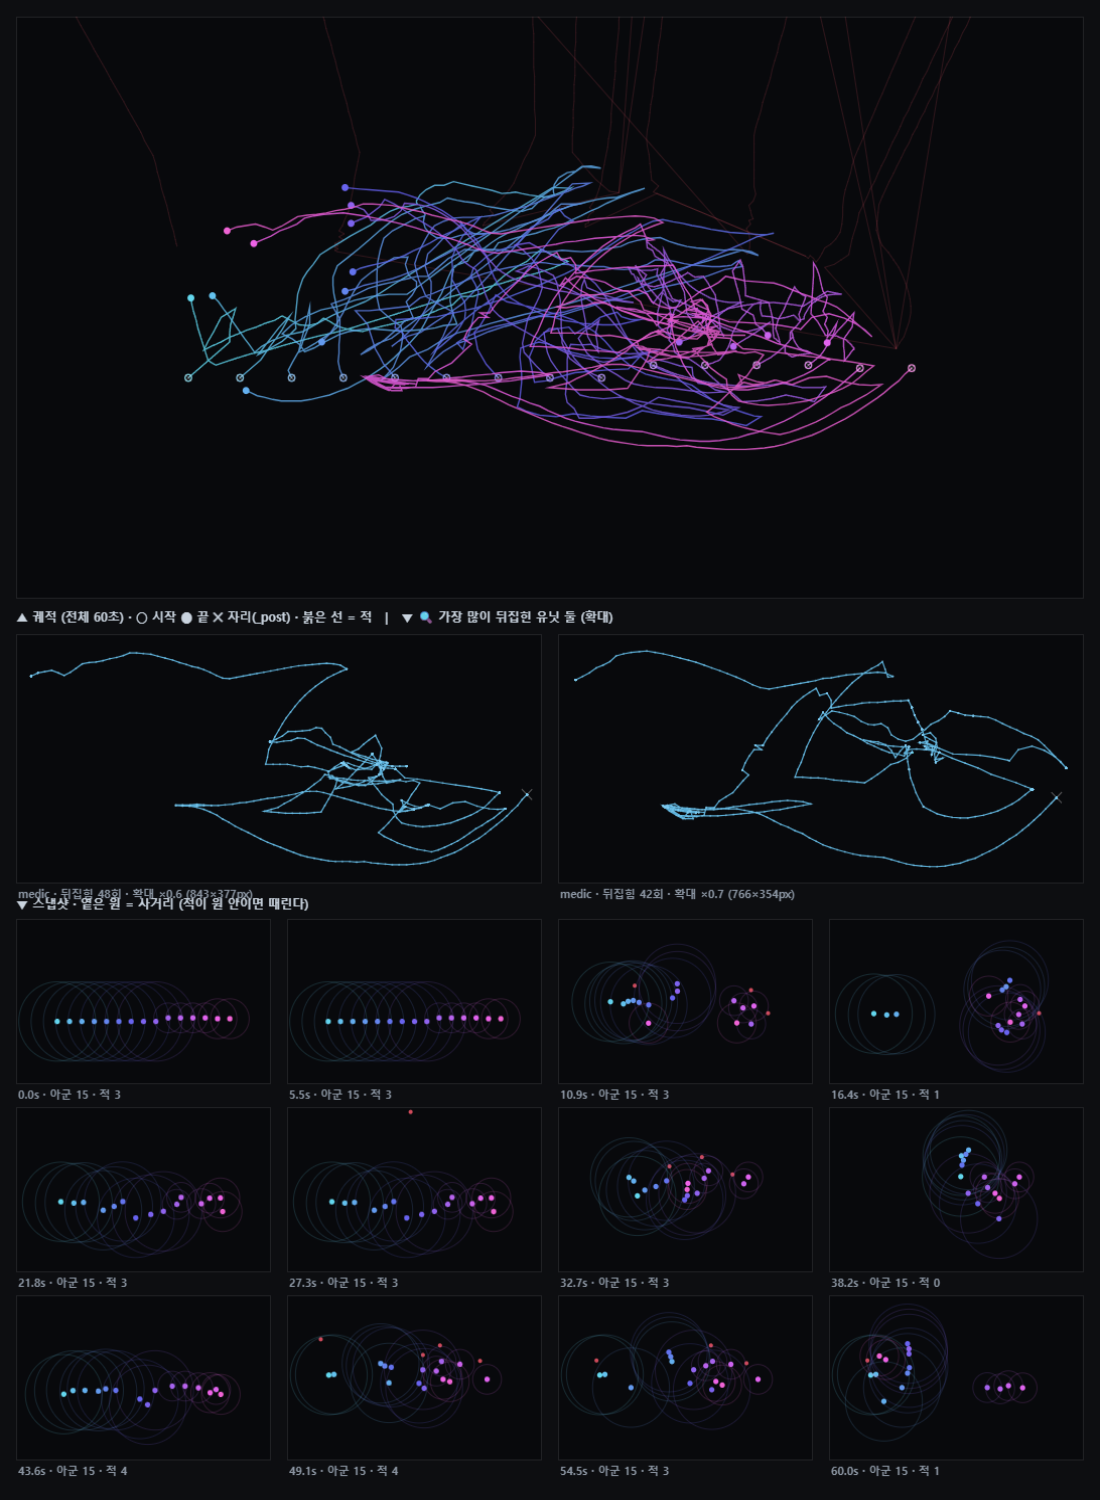
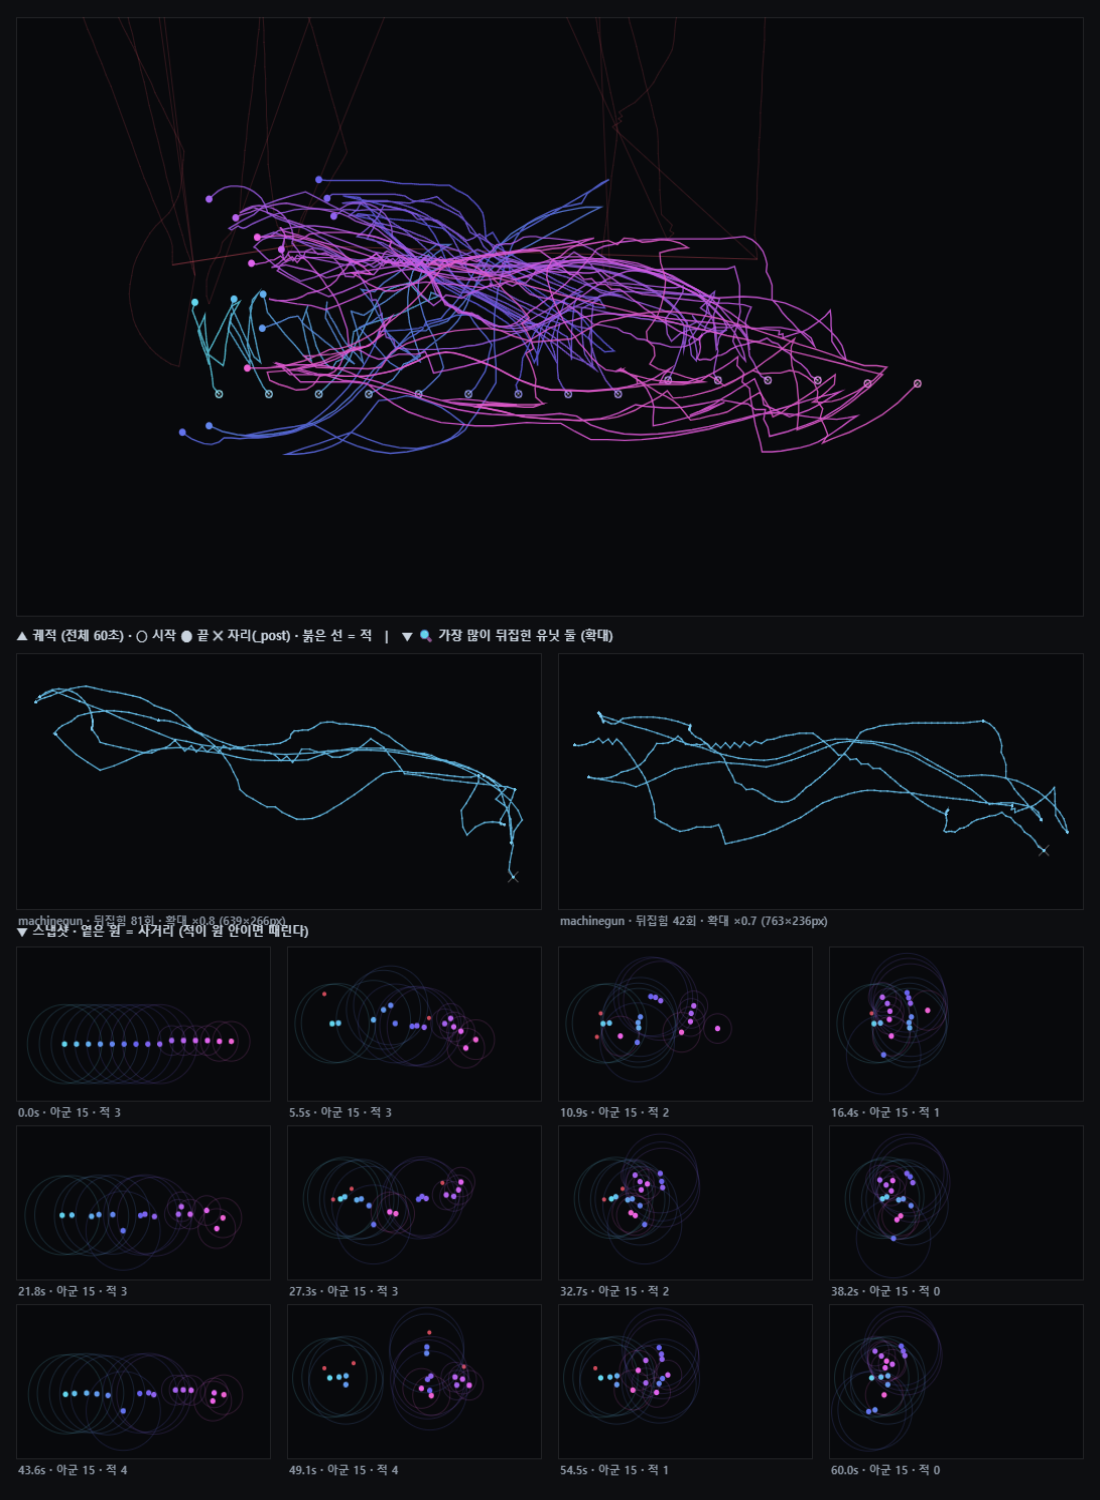
📣 캠프 전파 반경 150 → 400 — 헛걸음을 없앤다
눈은 「사거리+100」(레인저 287)인데 진형은 840px 이라 줄 끝까지 소식이 안 갔다.
적이 끊이지 않는 던전에서도 표적을 가진 비율이 33~52% 였다.

⛔ 화력 수치로는 이 변화가 안 보인다 — 던전 1 실효 0.61~0.62 로 전후가 같다.
  적이 3마리뿐이라 이미 다 잡고 있어 **천장에 걸린 상태**다.
⭐ 보이는 것은 행동이다(사용자가 짚었다 — 「다 쏘기 전에 적이 죽는 것 아니냐」):
  끝내 못 닿는 헛걸음 16·30 → **2·10·0**, 그만큼이 「가는 중 적이 죽음」으로 옮겨갔다
  (19·23 → 39·26·39). 헛수고가 정상적인 결말로 바뀌었다.

⛔ 진형 폭(840)까지 주지는 않는다 — 어디에 두든 전군이 달려가 배치의 뜻이 사라진다.
  400 은 「곁의 두세 명 건너까지」다. 자리 이탈은 안 늘었다(120~143 → 134~165).
⚠ 던전 2 에서는 갈리지 않는다 — 거기는 적이 하나도 안 죽고 아군이 전멸한다(다른 문제).

diff --git a/ARCHITECTURE.md b/ARCHITECTURE.md
@@ -268,6 +268,29 @@ CHROME_PATH=/opt/pw-browsers/chromium node scripts/camp-trace.mjs [초] [던전]
 아직 안 고쳤다.
 ⚠ 판별 편차가 크다(사거리 안 13.2~27.1%). 한 번 재고 결론 내지 말 것.
 
+##### 📣 전파 반경 150 → 400 — 헛걸음이 사라진다 (2026-09-01 사용자 확정)
+
+⚠ 눈은 「사거리 + 100」(레인저 287)인데 진형은 **840px** 이라, 왼쪽 끝 유닛은 오른쪽에 온 적을
+아예 못 본다. 적이 끊이지 않는 던전에서도 **표적을 가진 비율이 33~52%** 였다.
+
+⛔ **화력 수치로는 이 변화가 안 보인다** — 던전 1은 실효 0.61~0.62 로 전후가 같다.
+적이 3마리뿐이라 이미 다 잡고 있어서 **천장에 걸린 상태**이기 때문이다.
+⭐ 보이는 것은 **행동**이다(사용자가 짚었다 — 「다 쏘기 전에 적이 죽는 것 아니냐」):
+
+| 던전 1 · 60초 · 보병 15기 | 닿음 | **못 닿음** | 가는 중 적이 죽음 |
+|---|---|---|---|
+| 전파 150 | 23 · 20 | **16 · 30** | 23 · 19 |
+| 전파 400 | 21 · 25 · 24 | **2 · 10 · 0** | 39 · 26 · 39 |
+
+⇒ **끝내 못 닿는 헛걸음이 23건 → 4건으로 사라졌고**, 그만큼이 「가는 중에 적이 죽음」으로 옮겨갔다.
+헛수고가 정상적인 결말로 바뀐 것이다.
+
+⛔ **진형 폭(840)까지 주지는 않는다** — 어디에 두든 전군이 달려가 **배치의 뜻이 사라진다**
+(2026-09-01 사용자 확정). 400 은 「곁의 두세 명 건너까지」다.
+⚠ 자리 이탈은 안 늘었다(평균 120~143 → 134~165) — 우르르 몰려가지 않는다.
+⚠ **던전 2 에서는 갈리지 않는다** — 실효 150: 0.25·0.25·0.43·0.33 / 400: 0.35·0.45·0.38·0.24.
+거기는 적이 하나도 안 죽고(「가는 중 적이 죽음」 0건) **아군이 전멸한다** — 다른 문제다.
+
 ##### 📊 30분 벤치 — 네 단계 전부 **사실상 같다** (2026-08-31 · 판별 편차가 변화보다 크다)
 
 | 단계 | 도달 라운드 | 비고 |
